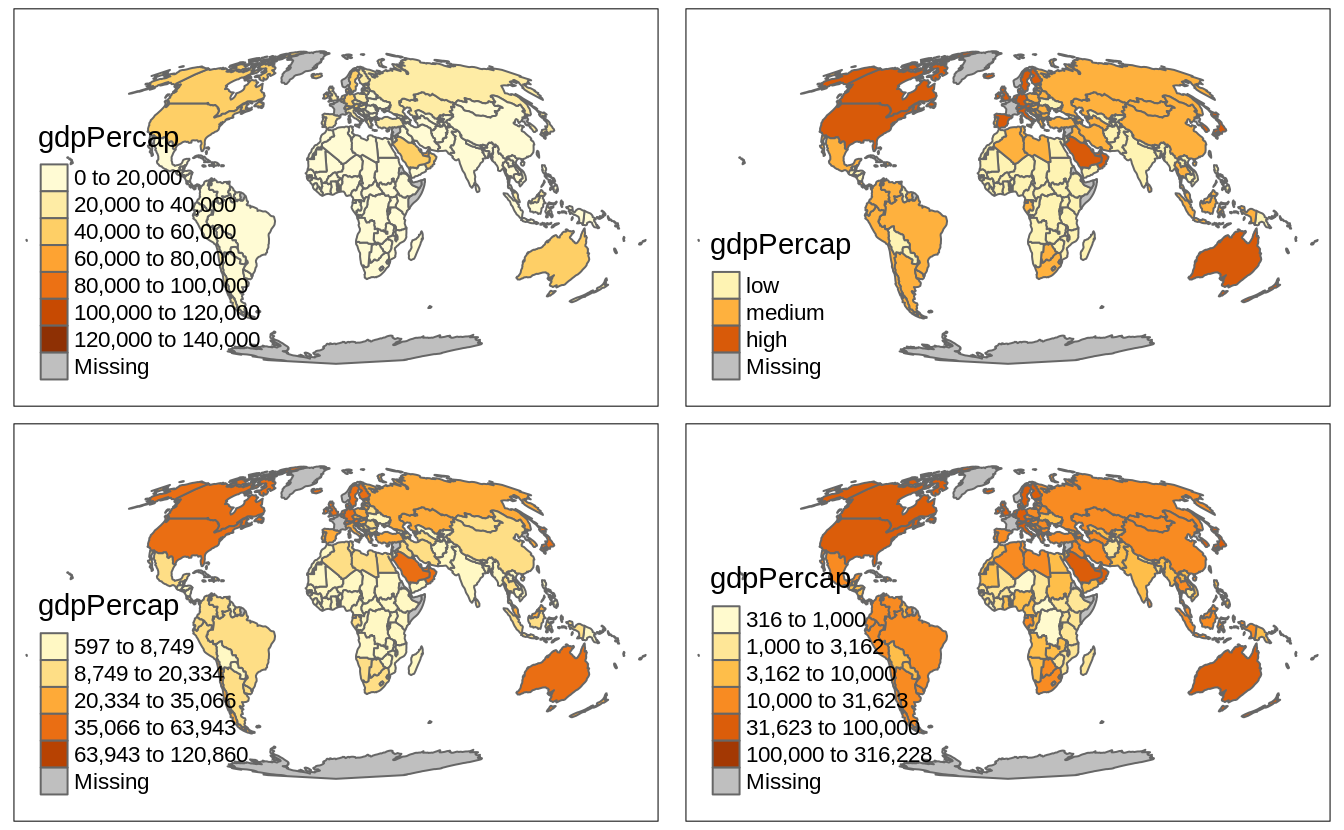
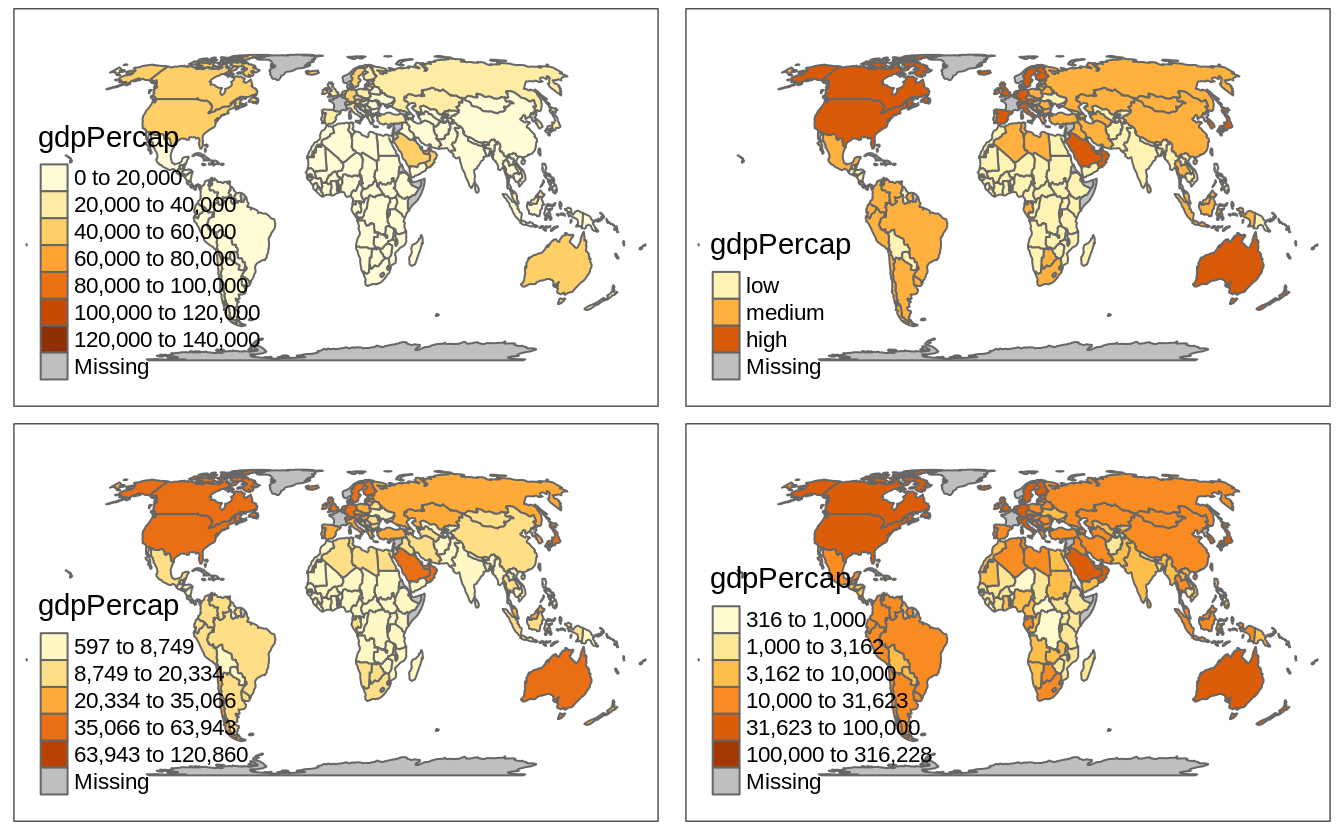
Deploy commit: starts color scales desc ab6b24673c5b69fa90882902e08901620413c2c4

diff --git a/layers.html b/layers.html
@@ -24,7 +24,7 @@
 <meta name="author" content="Martijn Tennekes, Jakub Nowosad" />
 
 
-<meta name="date" content="2020-09-21" />
+<meta name="date" content="2020-09-22" />
 
   <meta name="viewport" content="width=device-width, initial-scale=1" />
   <meta name="apple-mobile-web-app-capable" content="yes" />
@@ -561,46 +561,41 @@ FIGURE 5.2: Examples of four ways of specifying color palettes: (1) default sequ
 </div>
 <div id="the-color-scale-styles" class="section level2">
 <h2><span class="header-section-number">5.3</span> The color scale styles <!--JN: I am not sure where this section should go--></h2>
-<div class="sourceCode" id="cb17"><pre class="sourceCode r"><code class="sourceCode r"><span id="cb17-1"><a href="layers.html#cb17-1"></a><span class="co"># replace this data with some new tmap dataset</span></span>
-<span id="cb17-2"><a href="layers.html#cb17-2"></a><span class="kw">library</span>(sf)</span>
-<span id="cb17-3"><a href="layers.html#cb17-3"></a><span class="kw">library</span>(tmap)</span>
-<span id="cb17-4"><a href="layers.html#cb17-4"></a>file_path =<span class="st"> </span><span class="kw">system.file</span>(<span class="st">&quot;shapes/world.gpkg&quot;</span>, <span class="dt">package =</span> <span class="st">&quot;spData&quot;</span>)</span>
-<span id="cb17-5"><a href="layers.html#cb17-5"></a>world =<span class="st"> </span><span class="kw">read_sf</span>(file_path)</span>
-<span id="cb17-6"><a href="layers.html#cb17-6"></a>world_moll =<span class="st"> </span><span class="kw">st_transform</span>(world, <span class="dt">crs =</span> <span class="st">&quot;+proj=moll&quot;</span>)</span></code></pre></div>
-<!-- start with one color/adjacent polygons -->
-<!-- and next present three main types of color palettes -->
-<!-- after that categorical/discrete/continuous?? -->
-<div class="sourceCode" id="cb18"><pre class="sourceCode r"><code class="sourceCode r"><span id="cb18-1"><a href="layers.html#cb18-1"></a>tm_one =<span class="st"> </span><span class="kw">tm_shape</span>(world_moll) <span class="op">+</span></span>
-<span id="cb18-2"><a href="layers.html#cb18-2"></a><span class="st">  </span><span class="kw">tm_polygons</span>(<span class="dt">col =</span> <span class="st">&quot;lightblue&quot;</span>)</span>
-<span id="cb18-3"><a href="layers.html#cb18-3"></a>tm_uni =<span class="st"> </span><span class="kw">tm_shape</span>(world_moll) <span class="op">+</span></span>
-<span id="cb18-4"><a href="layers.html#cb18-4"></a><span class="st">  </span><span class="kw">tm_polygons</span>(<span class="dt">col =</span> <span class="st">&quot;MAP_COLORS&quot;</span>)</span>
-<span id="cb18-5"><a href="layers.html#cb18-5"></a><span class="kw">tmap_arrange</span>(tm_one, tm_uni)</span></code></pre></div>
-<p><img src="05-layers_files/figure-html/unnamed-chunk-10-1.png" width="672" style="display: block; margin: auto;" /></p>
+<!-- intro about setting colors -->
+<!-- info that generalized to points, lines, polygons, and rasters... -->
+<p><code>tm_polygons()</code> accepts three ways of specifying the fill color with the <code>col</code> argument.
+The first one is to fill all of the polygons to the same color - this happens when a single color value, as a color name or its hexadecimal form (section <a href="layers.html#color-palettes">5.2</a>), is provided (Figure <a href="layers.html#fig:colorscales1">5.3</a>).</p>
+<div class="sourceCode" id="cb17"><pre class="sourceCode r"><code class="sourceCode r"><span id="cb17-1"><a href="layers.html#cb17-1"></a><span class="kw">tm_shape</span>(x) <span class="op">+</span></span>
+<span id="cb17-2"><a href="layers.html#cb17-2"></a><span class="st">  </span><span class="kw">tm_polygons</span>(<span class="dt">col =</span> <span class="st">&quot;lightblue&quot;</span>)</span></code></pre></div>
+<div class="sourceCode" id="cb18"><pre class="sourceCode r"><code class="sourceCode r"><span id="cb18-1"><a href="layers.html#cb18-1"></a><span class="kw">tm_shape</span>(x) <span class="op">+</span></span>
+<span id="cb18-2"><a href="layers.html#cb18-2"></a><span class="st">  </span><span class="kw">tm_polygons</span>(<span class="dt">col =</span> <span class="st">&quot;MAP_COLORS&quot;</span>)</span></code></pre></div>
+<!-- To create a map, where adjacent polygons do not get the same color, we need to provide a keyword "MAP_COLORS". -->
+<div class="figure" style="text-align: center"><span id="fig:colorscales1"></span>
+<img src="05-layers_files/figure-html/colorscales1-1.png" alt="Example of a map with all polygons filled with the same color (top) and with adjacent polygons having different colors (bottom)." width="672" />
+<p class="caption">
+FIGURE 5.3: Example of a map with all polygons filled with the same color (top) and with adjacent polygons having different colors (bottom).
+</p>
+</div>
 <!-- categorical -->
-<div class="sourceCode" id="cb19"><pre class="sourceCode r"><code class="sourceCode r"><span id="cb19-1"><a href="layers.html#cb19-1"></a>tm_cat =<span class="st"> </span><span class="kw">tm_shape</span>(world_moll) <span class="op">+</span></span>
+<div class="sourceCode" id="cb19"><pre class="sourceCode r"><code class="sourceCode r"><span id="cb19-1"><a href="layers.html#cb19-1"></a>tm_cat =<span class="st"> </span><span class="kw">tm_shape</span>(x) <span class="op">+</span></span>
 <span id="cb19-2"><a href="layers.html#cb19-2"></a><span class="st">  </span><span class="kw">tm_polygons</span>(<span class="dt">col =</span> <span class="st">&quot;region_un&quot;</span>)</span>
 <span id="cb19-3"><a href="layers.html#cb19-3"></a>tm_cat</span></code></pre></div>
 <p><img src="05-layers_files/figure-html/unnamed-chunk-11-1.png" width="672" style="display: block; margin: auto;" /></p>
 <!-- "cat",  -->
 <!-- discrete -->
-<div class="sourceCode" id="cb20"><pre class="sourceCode r"><code class="sourceCode r"><span id="cb20-1"><a href="layers.html#cb20-1"></a>tm_pre =<span class="st"> </span><span class="kw">tm_shape</span>(world_moll) <span class="op">+</span></span>
+<div class="sourceCode" id="cb20"><pre class="sourceCode r"><code class="sourceCode r"><span id="cb20-1"><a href="layers.html#cb20-1"></a>tm_pre =<span class="st"> </span><span class="kw">tm_shape</span>(x) <span class="op">+</span></span>
 <span id="cb20-2"><a href="layers.html#cb20-2"></a><span class="st">  </span><span class="kw">tm_polygons</span>(<span class="dt">col =</span> <span class="st">&quot;gdpPercap&quot;</span>)</span>
-<span id="cb20-3"><a href="layers.html#cb20-3"></a>tm_fix =<span class="st"> </span><span class="kw">tm_shape</span>(world_moll) <span class="op">+</span></span>
+<span id="cb20-3"><a href="layers.html#cb20-3"></a>tm_fix =<span class="st"> </span><span class="kw">tm_shape</span>(x) <span class="op">+</span></span>
 <span id="cb20-4"><a href="layers.html#cb20-4"></a><span class="st">  </span><span class="kw">tm_polygons</span>(<span class="dt">col =</span> <span class="st">&quot;gdpPercap&quot;</span>, </span>
 <span id="cb20-5"><a href="layers.html#cb20-5"></a>              <span class="dt">breaks =</span> <span class="kw">c</span>(<span class="dv">0</span>, <span class="dv">10000</span>, <span class="dv">30000</span>, <span class="dv">121000</span>),</span>
 <span id="cb20-6"><a href="layers.html#cb20-6"></a>              <span class="dt">labels =</span> <span class="kw">c</span>(<span class="st">&quot;low&quot;</span>, <span class="st">&quot;medium&quot;</span>, <span class="st">&quot;high&quot;</span>))</span>
-<span id="cb20-7"><a href="layers.html#cb20-7"></a>tm_jen =<span class="st"> </span><span class="kw">tm_shape</span>(world_moll) <span class="op">+</span></span>
+<span id="cb20-7"><a href="layers.html#cb20-7"></a>tm_jen =<span class="st"> </span><span class="kw">tm_shape</span>(x) <span class="op">+</span></span>
 <span id="cb20-8"><a href="layers.html#cb20-8"></a><span class="st">  </span><span class="kw">tm_polygons</span>(<span class="dt">col =</span> <span class="st">&quot;gdpPercap&quot;</span>, </span>
 <span id="cb20-9"><a href="layers.html#cb20-9"></a>              <span class="dt">style =</span> <span class="st">&quot;jenks&quot;</span>)</span>
-<span id="cb20-10"><a href="layers.html#cb20-10"></a>tm_lop =<span class="st"> </span><span class="kw">tm_shape</span>(world_moll) <span class="op">+</span></span>
+<span id="cb20-10"><a href="layers.html#cb20-10"></a>tm_lop =<span class="st"> </span><span class="kw">tm_shape</span>(x) <span class="op">+</span></span>
 <span id="cb20-11"><a href="layers.html#cb20-11"></a><span class="st">  </span><span class="kw">tm_polygons</span>(<span class="dt">col =</span> <span class="st">&quot;gdpPercap&quot;</span>, </span>
 <span id="cb20-12"><a href="layers.html#cb20-12"></a>              <span class="dt">style =</span> <span class="st">&quot;log10_pretty&quot;</span>)</span>
-<span id="cb20-13"><a href="layers.html#cb20-13"></a><span class="kw">tmap_arrange</span>(tm_pre, tm_fix, tm_jen, tm_lop)</span>
-<span id="cb20-14"><a href="layers.html#cb20-14"></a><span class="co">#&gt; Warning: non-rounded breaks occur, because style =</span></span>
-<span id="cb20-15"><a href="layers.html#cb20-15"></a><span class="co">#&gt; &quot;log10_pretty&quot; is designed for large values</span></span>
-<span id="cb20-16"><a href="layers.html#cb20-16"></a></span>
-<span id="cb20-17"><a href="layers.html#cb20-17"></a><span class="co">#&gt; Warning: non-rounded breaks occur, because style =</span></span>
-<span id="cb20-18"><a href="layers.html#cb20-18"></a><span class="co">#&gt; &quot;log10_pretty&quot; is designed for large values</span></span></code></pre></div>
+<span id="cb20-13"><a href="layers.html#cb20-13"></a><span class="kw">tmap_arrange</span>(tm_pre, tm_fix, tm_jen, tm_lop)</span></code></pre></div>
 <p><img src="05-layers_files/figure-html/unnamed-chunk-12-1.png" width="672" style="display: block; margin: auto;" /></p>
 <!-- "pretty","fixed","jenks", and "log10_pretty" -->
 <!-- Mention: -->
@@ -608,13 +603,13 @@ FIGURE 5.2: Examples of four ways of specifying color palettes: (1) default sequ
 <!-- "sd", "kmeans", "hclust", "bclust", "fisher", -->
 <!-- "dpih", "headtails" -->
 <!-- continuous -->
-<div class="sourceCode" id="cb21"><pre class="sourceCode r"><code class="sourceCode r"><span id="cb21-1"><a href="layers.html#cb21-1"></a>tm_con =<span class="st"> </span><span class="kw">tm_shape</span>(world_moll) <span class="op">+</span></span>
+<div class="sourceCode" id="cb21"><pre class="sourceCode r"><code class="sourceCode r"><span id="cb21-1"><a href="layers.html#cb21-1"></a>tm_con =<span class="st"> </span><span class="kw">tm_shape</span>(x) <span class="op">+</span></span>
 <span id="cb21-2"><a href="layers.html#cb21-2"></a><span class="st">  </span><span class="kw">tm_polygons</span>(<span class="dt">col =</span> <span class="st">&quot;gdpPercap&quot;</span>,</span>
 <span id="cb21-3"><a href="layers.html#cb21-3"></a>              <span class="dt">style =</span> <span class="st">&quot;cont&quot;</span>)</span>
-<span id="cb21-4"><a href="layers.html#cb21-4"></a>tm_ord =<span class="st"> </span><span class="kw">tm_shape</span>(world_moll) <span class="op">+</span></span>
+<span id="cb21-4"><a href="layers.html#cb21-4"></a>tm_ord =<span class="st"> </span><span class="kw">tm_shape</span>(x) <span class="op">+</span></span>
 <span id="cb21-5"><a href="layers.html#cb21-5"></a><span class="st">  </span><span class="kw">tm_polygons</span>(<span class="dt">col =</span> <span class="st">&quot;gdpPercap&quot;</span>,</span>
 <span id="cb21-6"><a href="layers.html#cb21-6"></a>              <span class="dt">style =</span> <span class="st">&quot;order&quot;</span>)</span>
-<span id="cb21-7"><a href="layers.html#cb21-7"></a>tm_log =<span class="st"> </span><span class="kw">tm_shape</span>(world_moll) <span class="op">+</span></span>
+<span id="cb21-7"><a href="layers.html#cb21-7"></a>tm_log =<span class="st"> </span><span class="kw">tm_shape</span>(x) <span class="op">+</span></span>
 <span id="cb21-8"><a href="layers.html#cb21-8"></a><span class="st">  </span><span class="kw">tm_polygons</span>(<span class="dt">col =</span> <span class="st">&quot;gdpPercap&quot;</span>,</span>
 <span id="cb21-9"><a href="layers.html#cb21-9"></a>              <span class="dt">style =</span> <span class="st">&quot;log10&quot;</span>)</span>
 <span id="cb21-10"><a href="layers.html#cb21-10"></a><span class="kw">tmap_arrange</span>(tm_con, tm_ord, tm_log)</span></code></pre></div>

diff --git a/index.html b/index.html
@@ -24,7 +24,7 @@
 <meta name="author" content="Martijn Tennekes, Jakub Nowosad" />
 
 
-<meta name="date" content="2020-09-21" />
+<meta name="date" content="2020-09-22" />
 
   <meta name="viewport" content="width=device-width, initial-scale=1" />
   <meta name="apple-mobile-web-app-capable" content="yes" />
@@ -209,12 +209,12 @@ code span.wa { color: #60a0b0; font-weight: bold; font-style: italic; } /* Warni
 <div id="header">
 <h1 class="title">Elegant and informative maps with <strong>tmap</strong></h1>
 <p class="author"><em>Martijn Tennekes, Jakub Nowosad</em></p>
-<p class="date"><em>2020-09-21</em></p>
+<p class="date"><em>2020-09-22</em></p>
 </div>
 <div id="welcome" class="section level1 unnumbered">
 <h1>Welcome</h1>
 <p>This is the online home of <em>Elegant and informative maps with <strong>tmap</strong></em>, a book on geospatial data visualization with the R-package tmap.</p>
-<p>This version of the book was built on GH Actions on 2020-09-21.</p>
+<p>This version of the book was built on GH Actions on 2020-09-22.</p>
 <div id="how-to-contribute" class="section level2 unnumbered">
 <h2>How to contribute?</h2>
 

diff --git a/animations.html b/animations.html
@@ -24,7 +24,7 @@
 <meta name="author" content="Martijn Tennekes, Jakub Nowosad" />
 
 
-<meta name="date" content="2020-09-21" />
+<meta name="date" content="2020-09-22" />
 
   <meta name="viewport" content="width=device-width, initial-scale=1" />
   <meta name="apple-mobile-web-app-capable" content="yes" />

diff --git a/geodata.html b/geodata.html
@@ -24,7 +24,7 @@
 <meta name="author" content="Martijn Tennekes, Jakub Nowosad" />
 
 
-<meta name="date" content="2020-09-21" />
+<meta name="date" content="2020-09-22" />
 
   <meta name="viewport" content="width=device-width, initial-scale=1" />
   <meta name="apple-mobile-web-app-capable" content="yes" />

diff --git a/goodmaps.html b/goodmaps.html
@@ -24,7 +24,7 @@
 <meta name="author" content="Martijn Tennekes, Jakub Nowosad" />
 
 
-<meta name="date" content="2020-09-21" />
+<meta name="date" content="2020-09-22" />
 
   <meta name="viewport" content="width=device-width, initial-scale=1" />
   <meta name="apple-mobile-web-app-capable" content="yes" />

diff --git a/interactive.html b/interactive.html
@@ -24,7 +24,7 @@
 <meta name="author" content="Martijn Tennekes, Jakub Nowosad" />
 
 
-<meta name="date" content="2020-09-21" />
+<meta name="date" content="2020-09-22" />
 
   <meta name="viewport" content="width=device-width, initial-scale=1" />
   <meta name="apple-mobile-web-app-capable" content="yes" />

diff --git a/intro.html b/intro.html
@@ -24,7 +24,7 @@
 <meta name="author" content="Martijn Tennekes, Jakub Nowosad" />
 
 
-<meta name="date" content="2020-09-21" />
+<meta name="date" content="2020-09-22" />
 
   <meta name="viewport" content="width=device-width, initial-scale=1" />
   <meta name="apple-mobile-web-app-capable" content="yes" />

diff --git a/layout.html b/layout.html
@@ -24,7 +24,7 @@
 <meta name="author" content="Martijn Tennekes, Jakub Nowosad" />
 
 
-<meta name="date" content="2020-09-21" />
+<meta name="date" content="2020-09-22" />
 
   <meta name="viewport" content="width=device-width, initial-scale=1" />
   <meta name="apple-mobile-web-app-capable" content="yes" />

diff --git a/multiples.html b/multiples.html
@@ -24,7 +24,7 @@
 <meta name="author" content="Martijn Tennekes, Jakub Nowosad" />
 
 
-<meta name="date" content="2020-09-21" />
+<meta name="date" content="2020-09-22" />
 
   <meta name="viewport" content="width=device-width, initial-scale=1" />
   <meta name="apple-mobile-web-app-capable" content="yes" />

diff --git a/nutshell.html b/nutshell.html
@@ -24,7 +24,7 @@
 <meta name="author" content="Martijn Tennekes, Jakub Nowosad" />
 
 
-<meta name="date" content="2020-09-21" />
+<meta name="date" content="2020-09-22" />
 
   <meta name="viewport" content="width=device-width, initial-scale=1" />
   <meta name="apple-mobile-web-app-capable" content="yes" />

diff --git a/options.html b/options.html
@@ -24,7 +24,7 @@
 <meta name="author" content="Martijn Tennekes, Jakub Nowosad" />
 
 
-<meta name="date" content="2020-09-21" />
+<meta name="date" content="2020-09-22" />
 
   <meta name="viewport" content="width=device-width, initial-scale=1" />
   <meta name="apple-mobile-web-app-capable" content="yes" />

diff --git a/othertypes.html b/othertypes.html
@@ -24,7 +24,7 @@
 <meta name="author" content="Martijn Tennekes, Jakub Nowosad" />
 
 
-<meta name="date" content="2020-09-21" />
+<meta name="date" content="2020-09-22" />
 
   <meta name="viewport" content="width=device-width, initial-scale=1" />
   <meta name="apple-mobile-web-app-capable" content="yes" />
